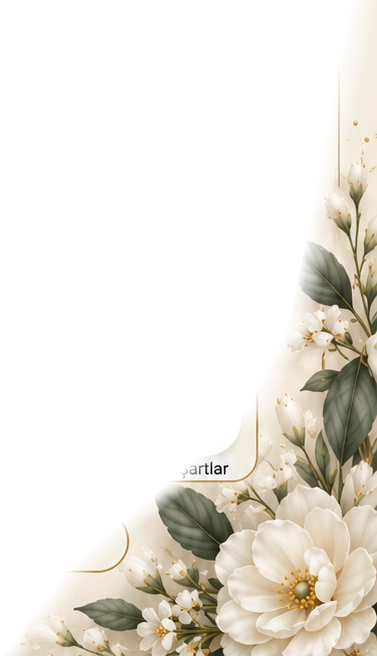
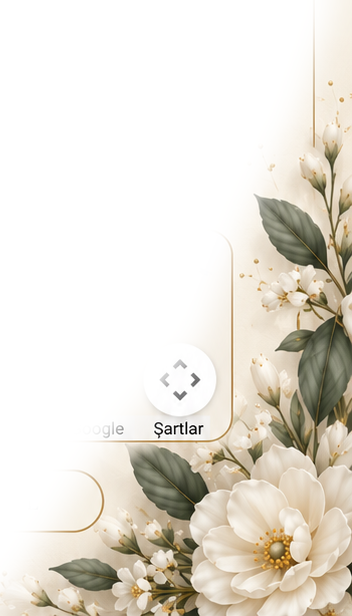
Add files via upload

Changed region(s): [[0.0, 0.0617, 1.0, 1.0], [0.75, 0.2468, 0.7812, 0.2776], [0.2188, 0.7403, 0.25, 0.7711]]

diff --git a/style.css b/style.css
@@ -1,10 +1,1 @@
-:root{--paper:#f7f2e9;--green:#273e31;--gold:#b18a4e}*{box-sizing:border-box}html{scroll-behavior:smooth}body{margin:0;background:var(--paper);color:var(--green);font-family:'Cormorant Garamond',Georgia,serif}button,a{-webkit-tap-highlight-color:transparent}.cover{position:fixed;inset:0;z-index:40;background:var(--paper);display:grid;place-items:center;overflow:hidden;transition:opacity .75s ease,visibility .75s ease}.cover-panel{height:100%;width:min(100%,560px);position:relative}.cover-panel img{width:100%;height:100%;object-fit:cover;display:block}.open-seal{position:absolute;left:50%;top:46%;transform:translate(-50%,-50%);width:clamp(160px,46vw,230px);aspect-ratio:1;border:0;border-radius:50%;background:transparent;cursor:pointer;touch-action:manipulation}.cover.opening{opacity:0;visibility:hidden;pointer-events:none}.invitation{max-width:560px;min-height:100svh;margin:0 auto;position:relative;isolation:isolate;overflow:hidden;background:var(--paper);opacity:0;visibility:hidden;transition:opacity .8s ease}.invitation.visible{opacity:1;visibility:visible}.frame{position:absolute;inset:19px 18px;z-index:1;pointer-events:none;border-left:1px solid var(--gold);border-right:1px solid var(--gold)}.botanical{position:absolute;z-index:1;pointer-events:none;user-select:none;display:block;height:auto}.botanical.top{left:0;top:0;width:min(80%,440px)}.botanical.bottom{right:0;bottom:0;width:min(64%,335px)}.content{position:relative;z-index:2;padding:0 clamp(34px,7vw,53px);text-align:center}.intro{padding-top:clamp(155px,29vh,245px)}.names{display:flex;flex-direction:column;align-items:center;font-family:'Italianno',cursive;font-size:clamp(85px,20vw,124px);line-height:.74;font-weight:400;color:var(--green)}.names span{display:block;white-space:nowrap}.names em{font-size:.39em;font-style:normal;color:var(--gold);line-height:.85;margin:13px 0 8px}.intro h1{font-size:clamp(18px,4.2vw,25px);letter-spacing:.15em;font-weight:400;line-height:1.18;margin:34px 0 24px}.datetime{display:grid;grid-template-columns:minmax(0,1fr) 1px minmax(0,1fr);align-items:center;gap:13px;max-width:415px;margin:auto}.date-cell{display:flex;flex-direction:column;align-items:center;gap:1px;min-width:0}.date-cell svg,.place-icon svg{width:29px;height:29px;stroke:var(--gold);stroke-width:1.7;fill:none;margin-bottom:7px}.date-cell strong{font-size:clamp(16px,3.9vw,22px);letter-spacing:.07em;font-weight:500;white-space:nowrap}.date-cell small{font-size:clamp(14px,3.4vw,18px);letter-spacing:.13em}.divider{height:76px;width:1px;background:var(--gold)}.message{font-size:clamp(21px,4.8vw,28px);font-style:italic;line-height:1.13;max-width:455px;margin:28px auto 18px}.scroll-note{font-size:13px;letter-spacing:.21em}.scroll-note span{display:block;font-size:29px;line-height:1.05;margin-top:4px}.count-section{padding-top:33px}.count-section h2{font-size:clamp(19px,4.5vw,26px);line-height:1.12;font-weight:400;letter-spacing:.13em;margin:0 0 21px}.countdown{display:grid;grid-template-columns:repeat(4,minmax(0,1fr));gap:8px}.countdown>div{aspect-ratio:1/1.04;border:1px solid var(--gold);border-radius:17px;background:#fffbf599;display:flex;flex-direction:column;align-items:center;justify-content:center}.countdown b{font-size:clamp(26px,6.8vw,41px);font-weight:500;line-height:1.1}.countdown small{font-size:clamp(11px,2.8vw,16px);letter-spacing:.09em}.ornament{color:var(--gold);font-size:18px;margin:20px 0 0}.place{padding:27px 0 110px}.place-icon svg{height:30px;width:30px;margin:0}.place h2{font-size:clamp(17px,4vw,22px);font-weight:500;letter-spacing:.12em;line-height:1.08;margin:11px auto 23px;max-width:390px}.map{height:220px;overflow:hidden;border-radius:13px;border:1px solid var(--gold);background:#eae5dc}.map iframe{width:100%;height:100%;border:0}.route{display:block;margin:15px auto 0;max-width:350px;padding:11px 18px;border:1px solid var(--gold);border-radius:999px;text-decoration:none;color:var(--green);background:#fff9f0e8;font-size:clamp(18px,4.4vw,23px);letter-spacing:.09em}.music-toggle{position:fixed;z-index:35;top:25%;right:max(14px,calc((100vw - 530px)/2));width:53px;height:53px;border:1px solid var(--gold);border-radius:50%;background:#faf5ecef;color:var(--gold);font-size:27px;cursor:pointer}.music-toggle.muted::after{content:'╱';position:absolute;left:18px;top:6px;font-size:36px}@media(max-width:390px){.content{padding-left:31px;padding-right:31px}.intro{padding-top:145px}.names{font-size:clamp(82px,20vw,105px)}.countdown{gap:7px}.date-cell strong{font-size:15px}.message{font-size:21px}}@media(prefers-reduced-motion:reduce){.cover,.invitation{transition-duration:.15s}html{scroll-behavior:auto}}
-
-/* Reference lettering and isolated, text-free botanical layers */
-.names{display:block;width:min(100%,355px);margin:0 auto;line-height:1}
-.names img{display:block;width:100%;height:auto;object-fit:contain}
-.botanical.top{width:min(80%,440px)}
-.botanical.bottom{width:min(64%,335px)}
-.intro{padding-top:clamp(135px,23vh,195px)}
-.intro h1{margin-top:16px}
-@media(max-width:390px){.intro{padding-top:130px}.names{width:min(100%,315px)}}
+:root{--paper:#f7f2e9;--green:#263e32;--gold:#b28a4c}*{box-sizing:border-box}html{scroll-behavior:smooth}body{margin:0;background:var(--paper);color:var(--green);font-family:'Cormorant Garamond',Georgia,serif}.cover{position:fixed;inset:0;z-index:30;display:grid;place-items:center;background:var(--paper);transition:opacity .95s ease,visibility .95s ease}.cover img{width:100%;height:100%;object-fit:contain}.cover button{position:absolute;inset:0;border:0;background:transparent;cursor:pointer}.cover.is-open{opacity:0;visibility:hidden;pointer-events:none}.invitation{position:relative;isolation:isolate;overflow:hidden;width:min(100%,620px);margin:auto;min-height:100vh;padding:0 8% 78px;text-align:center;background:var(--paper);opacity:0;transform:translateY(12px);transition:opacity 1s ease,transform 1s ease}.invitation.is-visible{opacity:1;transform:none}.border{position:absolute;z-index:-1;inset:22px 4.2% 23px;border-left:1px solid var(--gold);border-right:1px solid var(--gold);pointer-events:none}.border:before,.border:after{content:"";position:absolute;height:1px;background:var(--gold);width:42%}.border:before{top:0;right:0}.border:after{bottom:0;left:0}.floral{position:absolute;z-index:-1;pointer-events:none;object-fit:contain}.floral-top{top:0;left:0;width:65%;max-width:390px}.floral-bottom{bottom:0;right:0;width:50%;max-width:300px}.hero{padding-top:clamp(102px,25vw,165px)}.names{width:74%;max-width:410px;margin:0 auto -5px}.names img{width:100%;height:auto;display:block}h1,h2,p{margin:0}h1{font-size:clamp(17px,4vw,27px);font-weight:500;line-height:1.22;letter-spacing:.18em}.date-row{display:grid;grid-template-columns:1fr 1px 1fr;align-items:center;gap:12px;margin:25px auto 22px;max-width:410px}.date-col{display:flex;align-items:center;flex-direction:column;gap:3px}.date-col svg,.pin,.directions svg{width:29px;height:29px;fill:none;stroke:var(--gold);stroke-width:1.7;stroke-linecap:round;stroke-linejoin:round}.date-col strong{font-size:clamp(15px,3.5vw,23px);font-weight:500;letter-spacing:.12em;white-space:nowrap}.date-col small{font-size:clamp(14px,3vw,20px);letter-spacing:.15em}.date-separator{height:64px;background:var(--gold)}.quote{font-size:clamp(20px,4.1vw,28px);line-height:1.15;font-style:italic;margin:22px auto 12px;max-width:480px}.ornament{display:flex;align-items:center;justify-content:center;gap:8px;color:var(--gold);font-size:17px;margin:13px 0}.ornament span{width:32px;height:1px;background:var(--gold)}.countdown-section h2{font-size:clamp(17px,4vw,27px);font-weight:500;line-height:1.14;letter-spacing:.15em;margin:14px 0 16px}.countdown{display:grid;grid-template-columns:repeat(4,minmax(0,1fr));gap:9px}.countdown>div{min-width:0;aspect-ratio:1/0.92;border:1px solid var(--gold);border-radius:19px;display:flex;flex-direction:column;justify-content:center;align-items:center;background:rgba(255,255,255,.32)}.countdown strong{font-size:clamp(28px,6vw,46px);font-weight:400;line-height:1}.countdown small{font-size:clamp(12px,2.6vw,18px);letter-spacing:.07em;margin-top:4px}.star{color:var(--gold);font-size:23px;margin:11px 0 6px}.venue .pin{width:30px;height:30px}.venue h2{font-size:clamp(16px,3.8vw,25px);font-weight:500;line-height:1.08;letter-spacing:.13em;margin:8px 0 12px}.map{height:clamp(145px,37vw,220px);border:1px solid var(--gold);border-radius:15px;overflow:hidden;background:#eee}.map iframe{width:100%;height:100%;border:0}.directions{display:flex;align-items:center;justify-content:center;gap:13px;width:fit-content;max-width:100%;margin:15px auto 0;padding:7px 23px;border:1px solid var(--gold);border-radius:50px;text-decoration:none;color:var(--green);background:rgba(247,242,233,.92);font-size:clamp(16px,3.6vw,23px);letter-spacing:.12em}.directions svg{width:23px;height:23px}.music-toggle{position:fixed;z-index:15;right:max(15px,calc((100vw - 590px)/2));top:25%;height:54px;width:54px;border:1px solid var(--gold);border-radius:50%;color:var(--gold);background:rgba(247,242,233,.94);font-size:27px;cursor:pointer}.music-toggle.muted{opacity:.65}@media(max-width:430px){.invitation{padding-left:8%;padding-right:8%;padding-bottom:64px}.hero{padding-top:110px}.names{width:84%;margin-bottom:0}.floral-top{width:67%}.floral-bottom{width:52%}.date-row{gap:8px}.quote{margin-top:19px}.wide-only{display:none}.music-toggle{height:48px;width:48px;right:13px}.venue h2{letter-spacing:.08em}}@media(prefers-reduced-motion:reduce){.cover,.invitation{transition:none}}

diff --git a/index.html b/index.html
@@ -1,14 +1,17 @@
 <!doctype html>
-<html lang="tr"><head><meta charset="utf-8"><meta name="viewport" content="width=device-width, initial-scale=1, viewport-fit=cover"><meta name="theme-color" content="#f7f2e9"><title>Ceyda & Halil | Nikâh Davetiyesi</title>
-<link rel="preconnect" href="https://fonts.googleapis.com"><link rel="preconnect" href="https://fonts.gstatic.com" crossorigin><link href="https://fonts.googleapis.com/css2?family=Italianno&family=Cormorant+Garamond:ital,wght@0,400;0,500;1,400;1,500&display=swap" rel="stylesheet"><link rel="stylesheet" href="style.css?v=42"></head>
-<body>
-<div id="cover" class="cover"><div class="cover-panel"><img src="kapak.jpg" alt="Altın C H mühürlü çiçekli davetiye kapağı"><button id="open" class="open-seal" type="button" aria-label="Mühre dokunarak davetiyeyi aç"></button></div></div>
+<html lang="tr"><head><meta charset="utf-8"><meta name="viewport" content="width=device-width, initial-scale=1, viewport-fit=cover"><meta name="theme-color" content="#f7f2e9"><title>Ceyda ve Halil | Nikâh Davetiyesi</title><link rel="preconnect" href="https://fonts.googleapis.com"><link rel="preconnect" href="https://fonts.gstatic.com" crossorigin><link href="https://fonts.googleapis.com/css2?family=Cormorant+Garamond:ital,wght@0,400;0,500;1,400&display=swap" rel="stylesheet"><link rel="stylesheet" href="style.css?v=20261026-1"></head><body>
+<div id="cover" class="cover"><img src="kapak.jpg" alt="Ceyda ve Halil davetiye kapağı"><button id="open" aria-label="Mühre dokunarak davetiyeyi aç"></button></div>
 <main id="invitation" class="invitation" inert>
-<div class="frame" aria-hidden="true"></div><img src="cicek-ust.png?v=42" class="botanical top" alt="" aria-hidden="true"><img src="cicek-alt.png?v=42" class="botanical bottom" alt="" aria-hidden="true">
-<div class="content">
-<section class="intro"><div class="names"><img src="ceyda-halil-yazi.png?v=42" alt="Ceyda ve Halil"></div><h1>NİKÂH TÖRENİMİZE<br>DAVETLİSİNİZ</h1>
-<div class="datetime"><div class="date-cell"><svg viewBox="0 0 24 24" aria-hidden="true"><rect x="3" y="5" width="18" height="16" rx="1.5"/><path d="M7 3v4M17 3v4M3 10h18M7 14h2M12 14h2"/></svg><strong>1 KASIM 2026</strong><small>PAZAR</small></div><i class="divider" aria-hidden="true"></i><div class="date-cell"><svg viewBox="0 0 24 24" aria-hidden="true"><circle cx="12" cy="12" r="9"/><path d="M12 6v6l4 3"/></svg><strong>13:15</strong><small>SAAT</small></div></div>
-<p class="message">Bu özel günde mutluluğumuzu<br class="desktop-only"> sizinle paylaşmak bizi çok mutlu edecek.</p><div class="scroll-note">AŞAĞI KAYDIRIN<span>⌄</span></div></section>
-<section class="count-section"><h2>ÖZEL GÜNÜMÜZE<br>KALAN SÜRE</h2><div class="countdown"><div><b id="days">00</b><small>GÜN</small></div><div><b id="hours">00</b><small>SAAT</small></div><div><b id="minutes">00</b><small>DK</small></div><div><b id="seconds">00</b><small>SN</small></div></div><div class="ornament" aria-hidden="true">✦</div></section>
-<section class="place"><div class="place-icon" aria-hidden="true"><svg viewBox="0 0 24 24"><path d="M12 22s7-7.2 7-13a7 7 0 0 0-14 0c0 5.8 7 13 7 13Z"/><circle cx="12" cy="9" r="2.5"/></svg></div><h2>DENİZLİ<br>MERKEZEFENDİ KÜLTÜR MERKEZİ</h2><div class="map"><iframe title="Denizli Merkezefendi Kültür Merkezi konum haritası" src="https://maps.google.com/maps?q=Denizli%20Merkezefendi%20K%C3%BClt%C3%BCr%20Merkezi&z=15&output=embed" loading="lazy" referrerpolicy="no-referrer-when-downgrade" allowfullscreen></iframe></div><a class="route" href="https://maps.app.goo.gl/uxKnvJDo62g8kEkaA?g_st=iw" target="_blank" rel="noopener noreferrer">YOL TARİFİ AL</a></section>
-</div></main><button id="musicToggle" class="music-toggle" type="button" aria-label="Müziği aç veya kapat" hidden>♫</button><audio id="music" src="muzik.mp3" preload="auto" loop playsinline></audio><script src="script.js?v=42"></script></body></html>
+<div class="border" aria-hidden="true"></div>
+<img class="floral floral-top" src="cicek-ust.png" alt="" aria-hidden="true"><img class="floral floral-bottom" src="cicek-alt.png" alt="" aria-hidden="true">
+<section class="hero">
+<div class="names"><img src="isimler.png" alt="Ceyda ve Halil"></div>
+<h1>NİKÂH TÖRENİMİZE<br>DAVETLİSİNİZ</h1>
+<div class="date-row"><div class="date-col"><svg viewBox="0 0 24 24" aria-hidden="true"><rect x="3" y="5" width="18" height="16" rx="1"/><path d="M7 3v4M17 3v4M3 10h18M7 14h2M12 14h2"/></svg><strong>1 KASIM 2026</strong><small>PAZAR</small></div><div class="date-separator"></div><div class="date-col"><svg viewBox="0 0 24 24" aria-hidden="true"><circle cx="12" cy="12" r="9"/><path d="M12 6v7l5 3"/></svg><strong>13:15</strong><small>SAAT</small></div></div>
+<p class="quote">Bu özel günde mutluluğumuzu<br class="wide-only"> sizinle paylaşmak bizi çok mutlu edecek.</p>
+<div class="ornament"><span></span>✦<span></span></div>
+</section>
+<section class="countdown-section"><h2>ÖZEL GÜNÜMÜZE<br>KALAN SÜRE</h2><div class="countdown"><div><strong id="days">00</strong><small>GÜN</small></div><div><strong id="hours">00</strong><small>SAAT</small></div><div><strong id="minutes">00</strong><small>DK</small></div><div><strong id="seconds">00</strong><small>SN</small></div></div><div class="star">✦</div></section>
+<section class="venue"><svg class="pin" viewBox="0 0 24 24" aria-hidden="true"><path d="M20 10c0 6-8 12-8 12S4 16 4 10a8 8 0 1 1 16 0Z"/><circle cx="12" cy="10" r="2.5"/></svg><h2>DENİZLİ<br>MERKEZEFENDİ KÜLTÜR<br>MERKEZİ</h2><div class="map"><iframe title="Denizli Merkezefendi Kültür Merkezi konumu" loading="lazy" referrerpolicy="no-referrer-when-downgrade" src="https://www.google.com/maps?q=Merkezefendi%20K%C3%BClt%C3%BCr%20Merkezi%20Denizli&output=embed"></iframe></div><a class="directions" href="https://maps.app.goo.gl/uxKnvJDo62g8kEkaA?g_st=iw" target="_blank" rel="noopener noreferrer"><svg viewBox="0 0 24 24" aria-hidden="true"><path d="m3 5 6-2 6 2 6-2v16l-6 2-6-2-6 2zM9 3v16M15 5v16"/></svg>YOL TARİFİ AL</a></section>
+</main>
+<button id="musicToggle" class="music-toggle" aria-label="Müziği aç veya kapat" hidden>♫</button><audio id="music" src="muzik.mp3" loop preload="none"></audio><script src="script.js?v=20261026-1"></script></body></html>

diff --git a/script.js b/script.js
@@ -1,23 +1,11 @@
 const cover=document.getElementById('cover');
-const openButton=document.getElementById('open');
 const invitation=document.getElementById('invitation');
+const openButton=document.getElementById('open');
 const music=document.getElementById('music');
-const toggle=document.getElementById('musicToggle');
-let opened=false;
-function syncMusic(){toggle.classList.toggle('muted',music.paused);toggle.setAttribute('aria-label',music.paused?'Müziği aç':'Müziği kapat');}
-function playMusic(){const promise=music.play();if(promise&&promise.catch)promise.catch(syncMusic);}
-function openInvitation(){
- if(opened)return;opened=true;
- playMusic(); // iPhone requires playback inside this direct tap event.
- invitation.inert=false;invitation.classList.add('visible');
- cover.classList.add('opening');toggle.hidden=false;
- window.setTimeout(()=>{cover.hidden=true;},800);
-}
+const musicToggle=document.getElementById('musicToggle');
+function openInvitation(){if(cover.classList.contains('is-open'))return;invitation.inert=false;invitation.classList.add('is-visible');cover.classList.add('is-open');musicToggle.hidden=false;music.play().then(()=>{musicToggle.classList.remove('muted')}).catch(()=>{musicToggle.classList.add('muted')});setTimeout(()=>cover.hidden=true,1050)}
 openButton.addEventListener('click',openInvitation);
-cover.addEventListener('click',openInvitation);
-toggle.addEventListener('click',()=>{if(music.paused)playMusic();else music.pause();});
-music.addEventListener('play',syncMusic);music.addEventListener('pause',syncMusic);
-music.addEventListener('error',()=>{toggle.classList.add('muted');toggle.title='Müzik dosyası yüklenemedi';});
-const target=Date.parse('2026-11-01T13:15:00+03:00');
-function updateCountdown(){const diff=Math.max(0,target-Date.now());const parts=[Math.floor(diff/86400000),Math.floor(diff/3600000)%24,Math.floor(diff/60000)%60,Math.floor(diff/1000)%60];['days','hours','minutes','seconds'].forEach((id,i)=>{document.getElementById(id).textContent=String(parts[i]).padStart(2,'0');});}
+musicToggle.addEventListener('click',()=>{if(music.paused){music.play().then(()=>musicToggle.classList.remove('muted')).catch(()=>{})}else{music.pause();musicToggle.classList.add('muted')}});
+const target=new Date('2026-11-01T13:15:00+03:00').getTime();
+function updateCountdown(){let left=Math.max(0,target-Date.now());const days=Math.floor(left/86400000);left%=86400000;const hours=Math.floor(left/3600000);left%=3600000;const minutes=Math.floor(left/60000);left%=60000;const seconds=Math.floor(left/1000);for(const [id,val] of Object.entries({days,hours,minutes,seconds}))document.getElementById(id).textContent=String(val).padStart(2,'0')}
 updateCountdown();setInterval(updateCountdown,1000);
